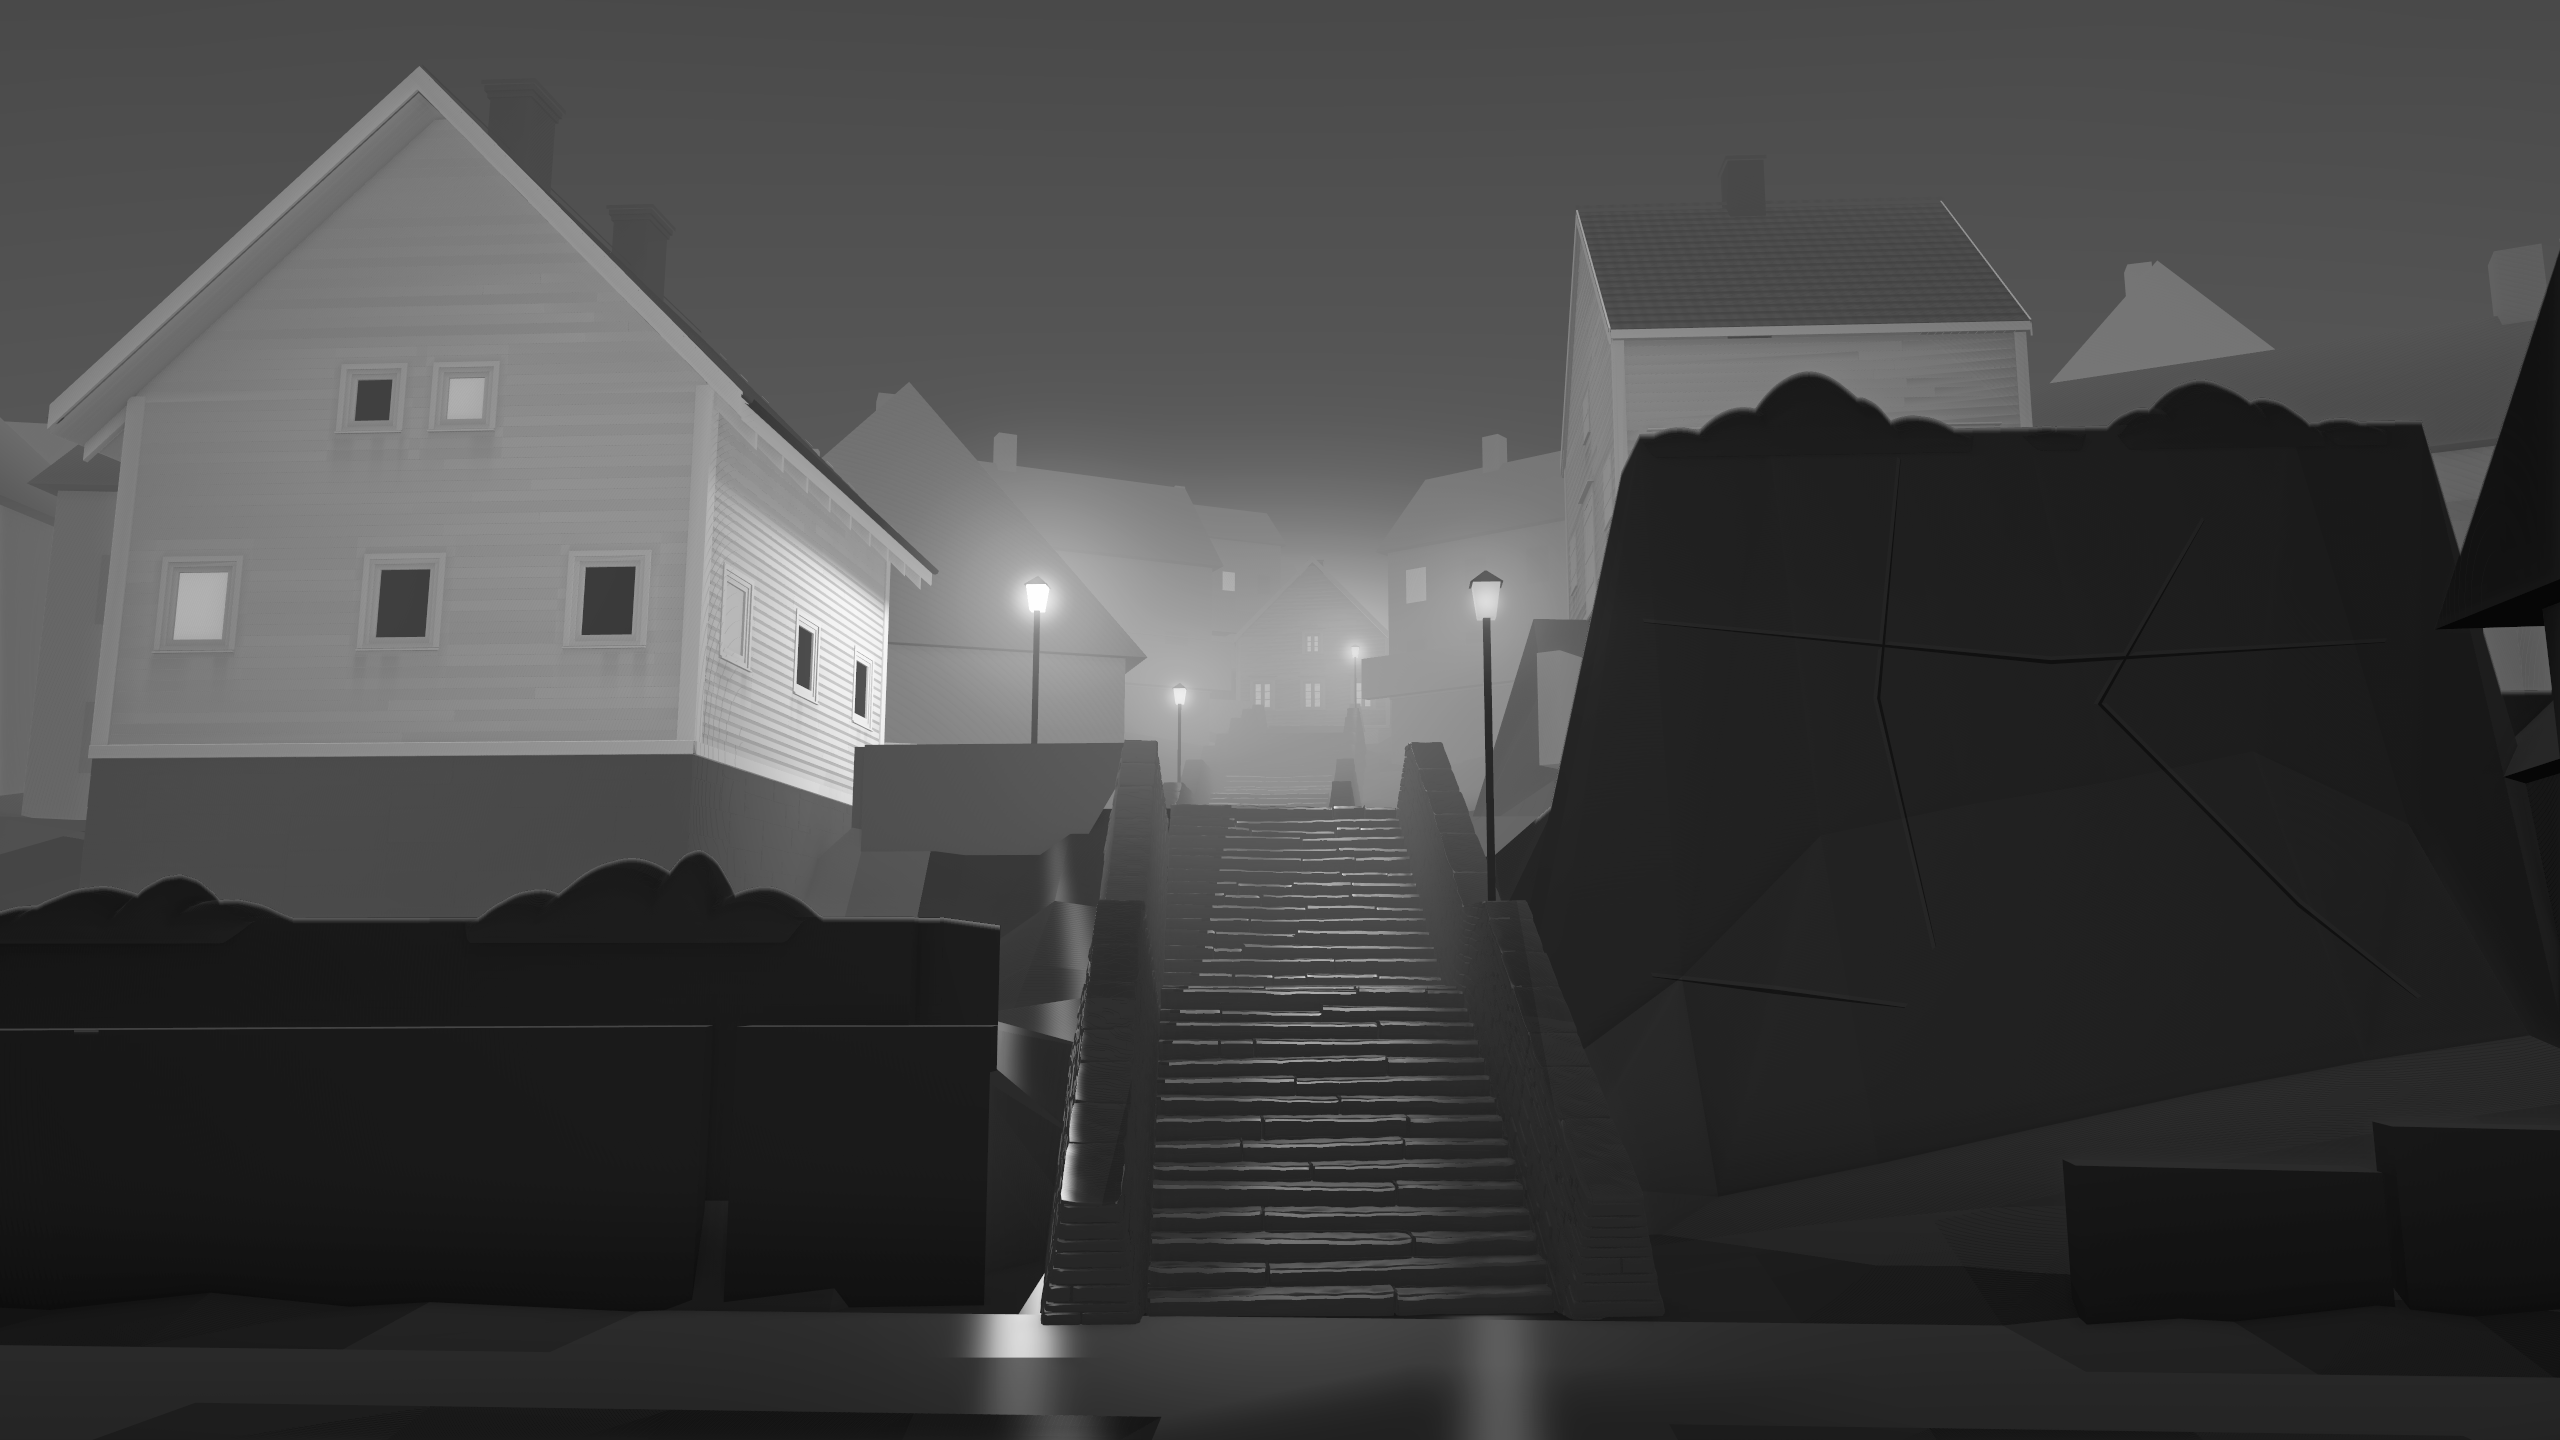
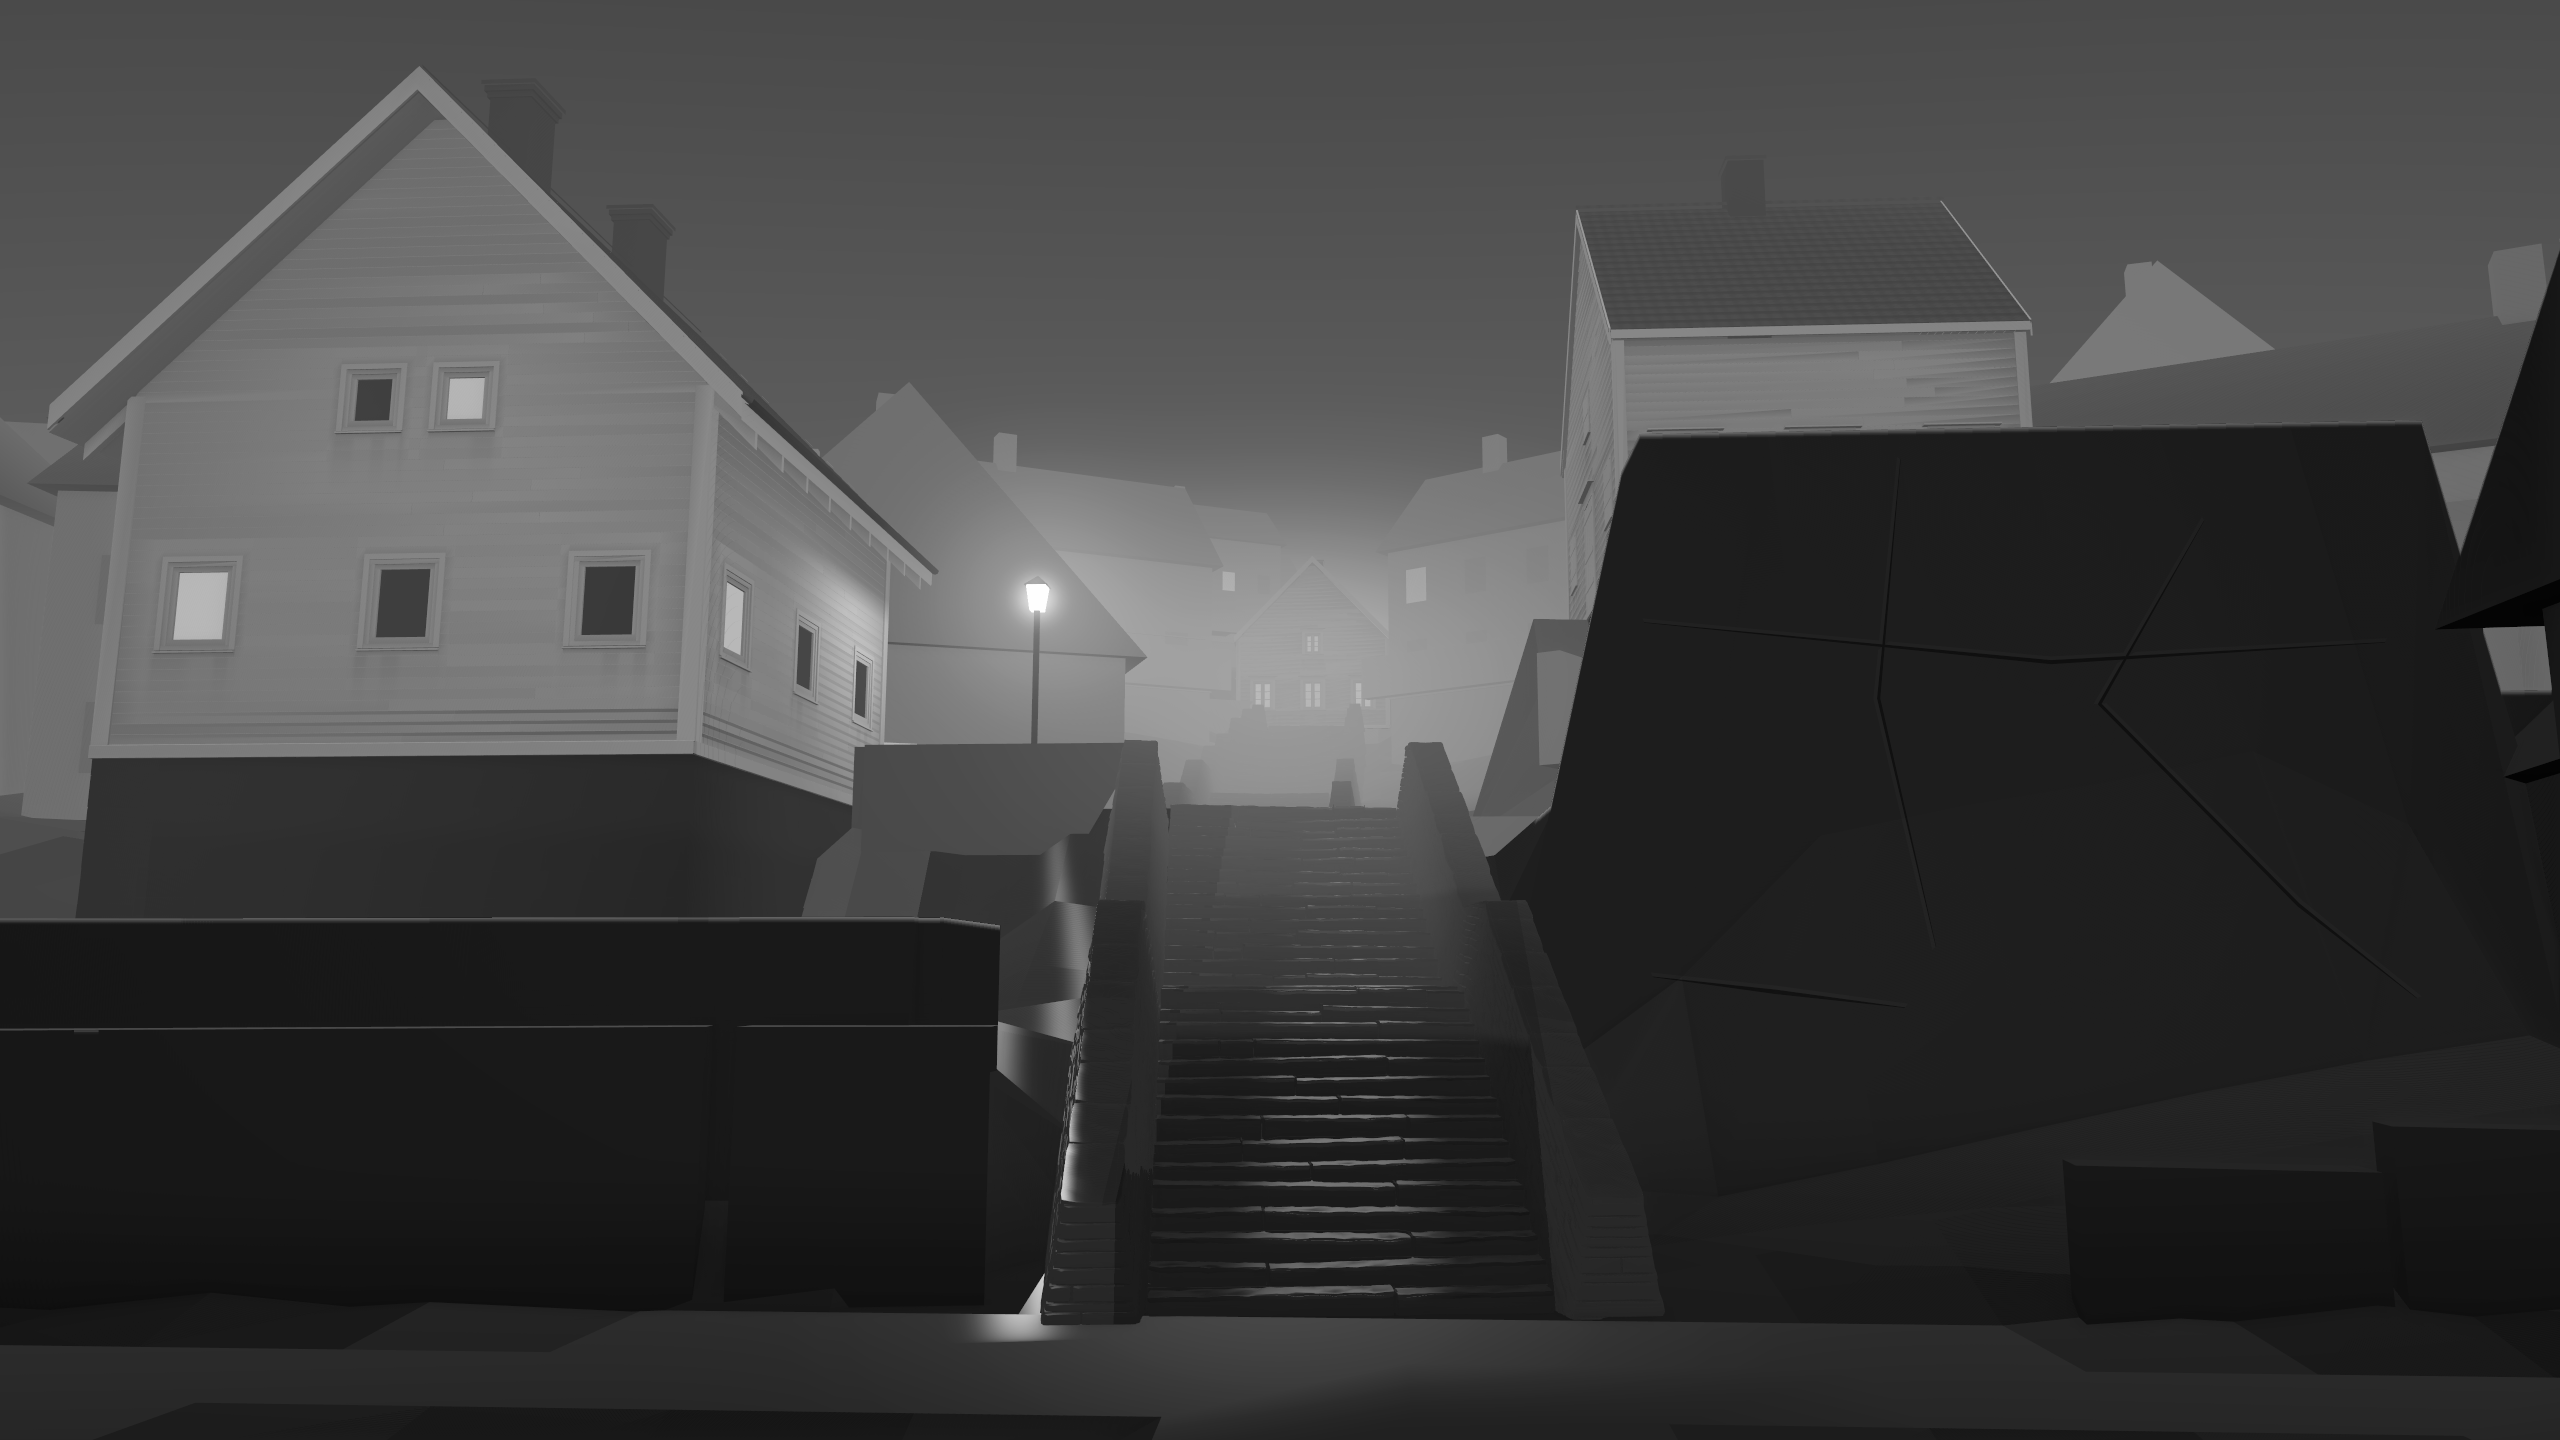
LT1: art direction: the last pass (blue hour, one lantern, the flight in three groups, clapboard, no tufts)

diff --git a/unity/Assets/Code/Editor/LT1ArtPasses.cs b/unity/Assets/Code/Editor/LT1ArtPasses.cs
@@ -168,7 +168,7 @@ namespace Overstory.EditorTools
         [System.Serializable] class PHide { public float[] box; public int cls; }
         [System.Serializable] class PCover { public string name; public int slot; }
         [System.Serializable] class PTuft { public string name; public int slot; public float[] from, to, lumps; public float depth, overhang, drop; public float shape = 0.6f; }
-        [System.Serializable] class PLantern { public float post, glassH, glassBottom, glassTop, capH, capW; public int glassSlot, metalSlot; }
+        [System.Serializable] class PLantern { public float post, glassH, glassBottom, glassTop, capH, capW; public int glassSlot, metalSlot; public float shadowBias = 0.05f, shadowNormalBias = 0.4f; }
         [System.Serializable] class PLamp { public string id, srgb; public float[] @base, head, halo; public float[] fill = new float[2]; public string fillSrgb; public float power, white, haloStrength; public float @catch = 1f; }
         [System.Serializable]
         class PaintData
@@ -479,6 +479,10 @@ namespace Overstory.EditorTools
                     light.range = lightReach;
                     light.shadows = LightShadows.Soft;
                     light.shadowNearPlane = 0.05f;
+                    // its own bias, so a wall it rakes takes no acne rings (the pipeline's is set for the sun)
+                    light.GetUniversalAdditionalLightData().usePipelineSettings = false;
+                    light.shadowBias = lt.shadowBias;
+                    light.shadowNormalBias = lt.shadowNormalBias;
                     var hc = LinearOf(lamp.srgb) * lamp.haloStrength;
                     lampPos[k] = new Vector4(head.x, head.y, head.z, lamp.halo[0]);
                     lampHalo[k] = new Vector4(hc.r, hc.g, hc.b, lamp.halo[1]);
